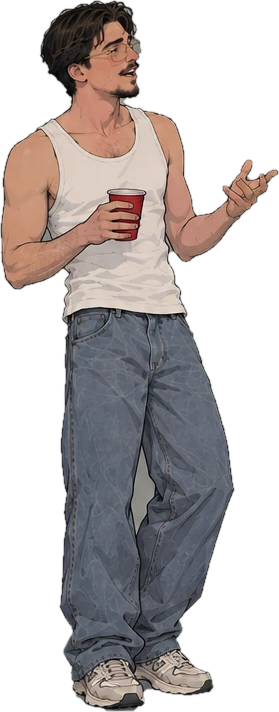
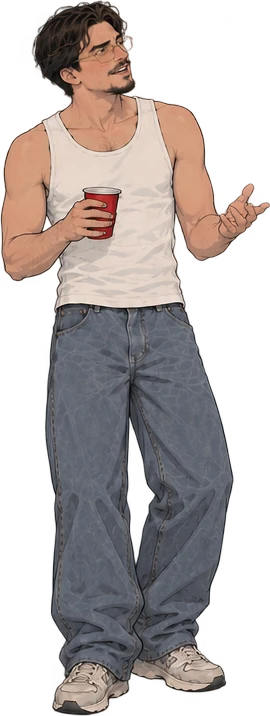
Justin : 2e planche (parle sans sourire, serieux, explique, en colere, cell, assis) ; jingle d'ouverture sous « Tu es »
- drunk_talk = parler neutre (l'ancien, qui souriait, reste en drunk_joke) ; drunk_serious sur « Rent's due Monday… » et « Brooke. Who's the guy? »
- dessinees au lieu des doublures : explaining (2 mains, inquiet), angry (poings), phone_shock, sit_fire (assis, feu de camp)
- la planche dans la galerie de Justin (ref/justin_bar2)
- sfx/intro (jingle d'emission, 5 s, -20 LUFS) joue a l'ouverture de chaque histoire, sous la carte « Tu es »

Changed region(s): [[0.0, 0.0, 1.0, 1.0], [0.4148, 0.7725, 0.4444, 0.8034]]

diff --git a/chars.js b/chars.js
@@ -1,1 +1,1 @@
-window.SPRITES = {"amare":{"refH":662,"poses":{"angry":[293,649],"explaining":[293,647],"holding":[241,655],"listen":[284,662],"surprised":[282,659],"thinking":[278,658]}},"brooke":{"refH":715,"poses":{"drunk_happy":[231,699],"drunk_joke":[286,713],"drunk_letdown":[227,715],"drunk_listen":[252,707],"drunk_point":[226,698],"drunk_sad":[240,695],"drunk_smile":[252,711],"drunk_talk":[290,703],"nervous":[229,708],"pee":[236,693],"pee_look":[220,698],"pee_relief":[225,700],"shoulder_hit":[323,670],"sit_fire":[321,636],"texting":[222,703],"thinking":[206,709]}},"cam":{"refH":706,"poses":{"awkward":[215,700],"explaining":[274,703],"flirty":[209,706],"listen":[246,701],"sip":[240,705],"thinking":[224,705],"tipsy_laugh":[220,703],"worried":[214,695]}},"candy":{"refH":662,"poses":{"angry":[293,649],"explaining":[293,647],"holding":[241,655],"listen":[284,662],"surprised":[282,659],"thinking":[278,658]}},"diane":{"refH":692,"poses":{"angry":[259,689],"explaining":[302,692],"holding":[205,676],"listen":[235,684],"surprised":[256,681],"thinking":[230,685]}},"isa_noir":{"refH":692,"poses":{"angry":[259,689],"explaining":[302,692],"holding":[205,676],"listen":[235,684],"surprised":[256,681],"thinking":[230,685]}},"isa_nuit":{"refH":692,"poses":{"angry":[259,689],"explaining":[302,692],"holding":[205,676],"listen":[235,684],"surprised":[256,681],"thinking":[230,685]}},"isa_or":{"refH":692,"poses":{"angry":[259,689],"explaining":[302,692],"holding":[205,676],"listen":[235,684],"surprised":[256,681],"thinking":[230,685]}},"james":{"refH":707,"poses":{"angry":[259,681],"explaining":[276,688],"holding":[215,689],"listen":[279,706],"surprised":[271,700],"thinking":[227,707]}},"james_noir":{"refH":707,"poses":{"angry":[259,681],"explaining":[276,688],"holding":[215,689],"listen":[279,706],"surprised":[271,700],"thinking":[227,707]}},"julian":{"refH":713,"poses":{"cold":[248,711],"hands_up":[254,711],"listen":[257,709],"offer":[295,713],"smirk":[237,710],"talk":[282,708]}},"justin":{"refH":704,"poses":{"angry":[268,685],"explaining":[268,693],"hit":[266,640],"holding":[220,694],"ko":[315,210],"listen":[266,695],"phone_call":[270,698],"phone_shock":[235,700],"punch":[300,644],"surprised":[264,699],"texting":[247,698],"thinking":[242,704]}},"justin_b":{"refH":704,"poses":{"angry":[268,685],"explaining":[268,693],"hit":[266,640],"holding":[220,694],"ko":[315,210],"listen":[266,695],"phone_call":[270,698],"phone_shock":[235,700],"punch":[300,644],"surprised":[264,699],"texting":[247,698],"thinking":[242,704]}},"justin_bar":{"refH":717,"poses":{"drunk_flirt":[211,715],"drunk_happy":[217,715],"drunk_listen":[247,713],"drunk_sad":[212,717],"drunk_talk":[279,712],"texting":[204,716]}},"melissa":{"refH":692,"poses":{"angry":[259,689],"explaining":[302,692],"holding":[205,676],"listen":[235,684],"surprised":[256,681],"thinking":[230,685]}},"ruby":{"refH":692,"poses":{"angry":[259,689],"explaining":[302,692],"holding":[205,676],"listen":[235,684],"surprised":[256,681],"thinking":[230,685]}},"suit":{"refH":711,"poses":{"adjust":[195,710],"angry":[218,711],"listen":[221,708],"offer":[237,705],"pee":[228,686]}},"alex":{"refH":759,"poses":{"beach":[274,759]}},"belier_blanc":{"refH":705,"poses":{"stand":[246,705]}},"belier_noir":{"refH":710,"poses":{"stand":[280,710]}},"dan":{"refH":766,"poses":{"scared":[315,677],"stand":[263,766]}},"exile":{"refH":763,"poses":{"stand":[332,763]}},"mila":{"refH":757,"poses":{"beach":[267,757]}},"ninja":{"refH":731,"poses":{"stand":[265,731]}},"ombre":{"refH":720,"poses":{"stand":[321,720]}},"plage":{"refH":758,"poses":{"stand":[240,758]}},"rae":{"refH":674,"poses":{"kneel":[283,498],"possessed":[311,674]}}};
+window.SPRITES = {"amare":{"refH":662,"poses":{"angry":[293,649],"explaining":[293,647],"holding":[241,655],"listen":[284,662],"surprised":[282,659],"thinking":[278,658]}},"brooke":{"refH":715,"poses":{"drunk_happy":[231,699],"drunk_joke":[286,713],"drunk_letdown":[227,715],"drunk_listen":[252,707],"drunk_point":[226,698],"drunk_sad":[240,695],"drunk_smile":[252,711],"drunk_talk":[290,703],"nervous":[229,708],"pee":[236,693],"pee_look":[220,698],"pee_relief":[225,700],"shoulder_hit":[323,670],"sit_fire":[321,636],"texting":[222,703],"thinking":[206,709]}},"cam":{"refH":706,"poses":{"awkward":[215,700],"explaining":[274,703],"flirty":[209,706],"listen":[246,701],"sip":[240,705],"thinking":[224,705],"tipsy_laugh":[220,703],"worried":[214,695]}},"candy":{"refH":662,"poses":{"angry":[293,649],"explaining":[293,647],"holding":[241,655],"listen":[284,662],"surprised":[282,659],"thinking":[278,658]}},"diane":{"refH":692,"poses":{"angry":[259,689],"explaining":[302,692],"holding":[205,676],"listen":[235,684],"surprised":[256,681],"thinking":[230,685]}},"isa_noir":{"refH":692,"poses":{"angry":[259,689],"explaining":[302,692],"holding":[205,676],"listen":[235,684],"surprised":[256,681],"thinking":[230,685]}},"isa_nuit":{"refH":692,"poses":{"angry":[259,689],"explaining":[302,692],"holding":[205,676],"listen":[235,684],"surprised":[256,681],"thinking":[230,685]}},"isa_or":{"refH":692,"poses":{"angry":[259,689],"explaining":[302,692],"holding":[205,676],"listen":[235,684],"surprised":[256,681],"thinking":[230,685]}},"james":{"refH":707,"poses":{"angry":[259,681],"explaining":[276,688],"holding":[215,689],"listen":[279,706],"surprised":[271,700],"thinking":[227,707]}},"james_noir":{"refH":707,"poses":{"angry":[259,681],"explaining":[276,688],"holding":[215,689],"listen":[279,706],"surprised":[271,700],"thinking":[227,707]}},"julian":{"refH":713,"poses":{"cold":[248,711],"hands_up":[254,711],"listen":[257,709],"offer":[295,713],"smirk":[237,710],"talk":[282,708]}},"justin":{"refH":704,"poses":{"angry":[268,685],"explaining":[268,693],"hit":[266,640],"holding":[220,694],"ko":[315,210],"listen":[266,695],"phone_call":[270,698],"phone_shock":[235,700],"punch":[300,644],"surprised":[264,699],"texting":[247,698],"thinking":[242,704]}},"justin_b":{"refH":704,"poses":{"angry":[268,685],"explaining":[268,693],"hit":[266,640],"holding":[220,694],"ko":[315,210],"listen":[266,695],"phone_call":[270,698],"phone_shock":[235,700],"punch":[300,644],"surprised":[264,699],"texting":[247,698],"thinking":[242,704]}},"justin_bar":{"refH":725,"poses":{"angry":[242,725],"drunk_flirt":[211,715],"drunk_happy":[217,715],"drunk_joke":[279,712],"drunk_listen":[247,713],"drunk_sad":[212,717],"drunk_serious":[273,716],"drunk_talk":[270,716],"explaining":[251,722],"phone_shock":[261,721],"sit_fire":[306,573],"texting":[204,716]}},"melissa":{"refH":692,"poses":{"angry":[259,689],"explaining":[302,692],"holding":[205,676],"listen":[235,684],"surprised":[256,681],"thinking":[230,685]}},"ruby":{"refH":692,"poses":{"angry":[259,689],"explaining":[302,692],"holding":[205,676],"listen":[235,684],"surprised":[256,681],"thinking":[230,685]}},"suit":{"refH":711,"poses":{"adjust":[195,710],"angry":[218,711],"listen":[221,708],"offer":[237,705],"pee":[228,686]}},"alex":{"refH":759,"poses":{"beach":[274,759]}},"belier_blanc":{"refH":705,"poses":{"stand":[246,705]}},"belier_noir":{"refH":710,"poses":{"stand":[280,710]}},"dan":{"refH":766,"poses":{"scared":[315,677],"stand":[263,766]}},"exile":{"refH":763,"poses":{"stand":[332,763]}},"mila":{"refH":757,"poses":{"beach":[267,757]}},"ninja":{"refH":731,"poses":{"stand":[265,731]}},"ombre":{"refH":720,"poses":{"stand":[321,720]}},"plage":{"refH":758,"poses":{"stand":[240,758]}},"rae":{"refH":674,"poses":{"kneel":[283,498],"possessed":[311,674]}}};

diff --git a/bar.js b/bar.js
@@ -21,8 +21,11 @@ GALLERY.push({ sprite: 'suit', name: 'Stranger', src: 'perso_suit', ref: ['suit_
 // subtler); what he doesn't have yet plays with his closest pose
 FACE.brooke = { drunk_listen: 'r', drunk_talk: 'r', drunk_happy: 'r', drunk_sad: 'r', drunk_point: 'r', texting: 'f', thinking: 'r',
   pee: 'f', pee_relief: 'f', pee_look: 'r', drunk_smile: 'r', drunk_joke: 'r', drunk_letdown: 'r', nervous: 'r', sit_fire: 'r', shoulder_hit: 'r' };
-// Justin: his new sheet (bar, 23/10) is the only one he plays with here — never the old urban sheets
-FACE.justin_bar = { drunk_listen: 'r', drunk_talk: 'r', drunk_happy: 'r', drunk_sad: 'r', drunk_flirt: 'r', texting: 'r' };
+// Justin: his new sheet (bar, 23/10) is the only one he plays with here — never the old urban sheets. His 2nd sheet (26/10,
+// « Justin looks too happy when he talks »): drunk_talk is now a plain talk (the smiling one stays as drunk_joke), and
+// drunk_serious, explaining (both hands, worried), angry (fists), phone_shock, sit_fire (sitting) are drawn, not stand-ins
+FACE.justin_bar = { drunk_listen: 'r', drunk_talk: 'r', drunk_happy: 'r', drunk_sad: 'r', drunk_flirt: 'r', texting: 'r', drunk_joke: 'r',
+  drunk_serious: 'r', explaining: 'r', angry: 'r', phone_shock: 'r', sit_fire: 'r' };
 // the house's poses (sheets to come, 23/10) play meanwhile as the closest pose each one has
 window.POSE_ALIAS = {
   brooke: {
@@ -31,9 +34,9 @@ window.POSE_ALIAS = {
     scared: 'thinking', pleading: 'drunk_talk', punch: 'shoulder_hit', confess: 'drunk_sad',
   },
   justin_bar: {
-    listen: 'drunk_listen', explaining: 'drunk_talk', holding: 'drunk_sad', angry: 'drunk_talk', surprised: 'drunk_listen',
-    thinking: 'drunk_listen', drunk_point: 'drunk_talk', phone_shock: 'texting',
-    fake_smile: 'drunk_happy', shocked: 'drunk_listen', knock: 'drunk_talk', wine: 'drunk_listen', sit_fire: 'drunk_sad', sit_hurt: 'drunk_sad',
+    listen: 'drunk_listen', holding: 'drunk_sad', surprised: 'drunk_listen', pleading: 'explaining',
+    thinking: 'drunk_listen', drunk_point: 'drunk_talk',
+    fake_smile: 'drunk_happy', shocked: 'drunk_listen', knock: 'drunk_talk', wine: 'drunk_listen', sit_hurt: 'sit_fire',
   },
   cam: { holding: 'worried', surprised: 'awkward', angry: 'worried', amused: 'tipsy_laugh',   // her own smile (a laugh behind her hand); her "amused" sheet pose looked at the camera
     wine: 'sip', dizzy: 'awkward', scared: 'worried', sit_fire: 'worried', cold_stare: 'thinking' },
@@ -52,7 +55,7 @@ FACE.diane = { listen: 'r', surprised: 'r', thinking: 'r', explaining: 'r', angr
 // explaining, thinking, worried, amused, sip) is her base; the first one keeps only her laugh, her awkward and her flirt
 FACE.cam = { listen: 'r', explaining: 'r', thinking: 'r', worried: 'r', sip: 'r', tipsy_laugh: 'r', awkward: 'r', flirty: 'l' };
 // the gallery shows the new Justin (the old sheet only plays in the older stories)
-GALLERY[GALLERY.findIndex((g) => g.sprite === 'justin')] = { sprite: 'justin_bar', name: 'Justin', src: 'perso_justin', ref: ['justin_bar'] };
+GALLERY[GALLERY.findIndex((g) => g.sprite === 'justin')] = { sprite: 'justin_bar', name: 'Justin', src: 'perso_justin', ref: ['justin_bar', 'justin_bar2'] };
 GALLERY.splice(1, 0, { sprite: 'brooke', name: 'Brooke', src: 'perso_brooke', ref: ['brooke_bar', 'brooke_toilettes'] },
   { sprite: 'cam', name: 'Cam', src: 'perso_cam', ref: ['cam_neutral', 'cam_bar'] });
 
@@ -660,7 +663,7 @@ const houseMeet = (f) => [
     one('pb'), hush(1500), say('pb', 'scared', '…I didn’t.', { to: 'cam' }),
     one('cam'), hush(800), say('cam', 'worried', 'Then who texted me?', { to: 'pb' }),
     one('pb'), hush(1000), narr('Brooke looks up at the balcony.'),
-    one('pa'), say('pa', 'drunk_talk', 'Brooke. Who’s the guy?', { to: 'pb' }),
+    one('pa'), say('pa', 'drunk_serious', 'Brooke. Who’s the guy?', { to: 'pb' }),
     one('pb'), say('pb', 'nervous', 'Nobody. A job. Let’s just… let’s have a drink.', { to: 'pa' }),
   ]),
   // two guys dressed for a bar in a room full of money
@@ -1107,7 +1110,7 @@ window.BAR = [
   ] },
   hush(800),   // the laugh dies down
   one('pa'),
-  say('pa', 'drunk_listen', 'Rent’s due Monday, man. I’m not covering you again.', { to: 'pb' }),   // serious: not his happy talking pose
+  say('pa', 'drunk_serious', 'Rent’s due Monday, man. I’m not covering you again.', { to: 'pb' }),   // serious: not his happy talking pose
   one('pb'), hush(1100),   // Brooke takes it
   { by: 'pb', choice: [
     { t: 'Something’ll come up.', intent: 'the universe', set: { rent: 'universe' }, then: [

diff --git a/index.html b/index.html
@@ -581,15 +581,15 @@ body.watch #choices button, body.watch .looks button { pointer-events: none; }
   <div id="qrCard" hidden><div id="qrBox"></div></div>
 </div>
 
-<script src="chars.js?v=20261026145905"></script>
-<script src="story.js?v=20261026145905"></script>
-<script src="play.js?v=20261026145905"></script>
-<script src="bar.js?v=20261026145905"></script>
-<script src="games.js?v=20261026145905"></script>
-<script src="gen.js?v=20261026145905"></script>
-<script src="demos.js?v=20261026145905"></script>
-<script src="episodes.js?v=20261026145905"></script>
-<script src="people.js?v=20261026145905"></script>
+<script src="chars.js?v=20261026150524"></script>
+<script src="story.js?v=20261026150524"></script>
+<script src="play.js?v=20261026150524"></script>
+<script src="bar.js?v=20261026150524"></script>
+<script src="games.js?v=20261026150524"></script>
+<script src="gen.js?v=20261026150524"></script>
+<script src="demos.js?v=20261026150524"></script>
+<script src="episodes.js?v=20261026150524"></script>
+<script src="people.js?v=20261026150524"></script>
 <script>
 const $ = (s) => document.querySelector(s);
 const stage = $('#stage'), world = $('#world'), bgImg = $('#bgimg'), backEl = $('#backdrop'), castEl = $('#cast'), frontEl = $('#front'),
@@ -904,9 +904,10 @@ const loadSfx = (name) => (sfxBuf[name] = sfxBuf[name] || fetch(`sfx/${name}.mp3
 // how loud each file plays (the files are levelled alike, ~-21 LUFS): a room's sound stays under the voices, the campfire
 // lowest; a one-off (a stinger: the boss's arrival, the important moment, the glitch) a little above the rooms.
 // Rooms: bar, bathroom, dark, campfire, crowd (a busy public interior), party (a house party), crickets (outside, evening),
-// wrong (something is wrong, horror), suspense (tense). One-offs: boss, moment, glitch
+// wrong (something is wrong, horror), suspense (tense). One-offs: boss, moment, glitch, intro (a show's opening jingle,
+// 5 s: under the "You are" card that opens every story)
 const SFX_VOL = { bar: 0.11, bathroom: 0.1, dark: 0.09, campfire: 0.02, crowd: 0.1, party: 0.1, crickets: 0.08, wrong: 0.09, suspense: 0.09,
-  boss: 0.25, moment: 0.2, glitch: 0.25 };
+  boss: 0.25, moment: 0.2, glitch: 0.25, intro: 0.3 };
 async function sfx(name, loop = false, rate = 1) {
   if (FAST || !audio()) return;
   const buf = await loadSfx(name); if (!buf) return;
@@ -1513,6 +1514,7 @@ async function introCard(who, at) {
   await Promise.race([img.decode().catch(() => {}), sleep(1500)]);
   if (run !== at) return;
   box.style.transition = 'none'; box.style.opacity = 1; box.hidden = false;
+  sfx('intro');   // the story opens like a show
   const timers = [[150, 'in'], [500, 'in rise'], [1100, 'in rise named']].map(([ms, c]) => setTimeout(() => { box.className = c; }, ms));
   await new Promise((ok) => { const t = setTimeout(ok, 3200); box.onclick = (e) => { e.stopPropagation(); clearTimeout(t); ok(); }; });
   timers.forEach(clearTimeout); box.onclick = null; box.style.transition = ''; box.style.opacity = 0;
@@ -2062,7 +2064,7 @@ function roomCode() {
 // the game's version (tools/site.py stamps it). Two phones on different versions can't play one story together, and
 // GitHub keeps the old one in a phone's cache ~10 min: a phone that hears of a newer version reloads to it, between
 // stories (never in the middle of one)
-const BUILD = '20261026145905';
+const BUILD = '20261026150524';
 function newer(v) {
   if (BUILD === 'dev' || !v || v === 'dev' || v <= BUILD || newer.done) return;
   if (!['#who', '#hub', '#lobby', '#wait', '#end'].includes(screen)) return;
